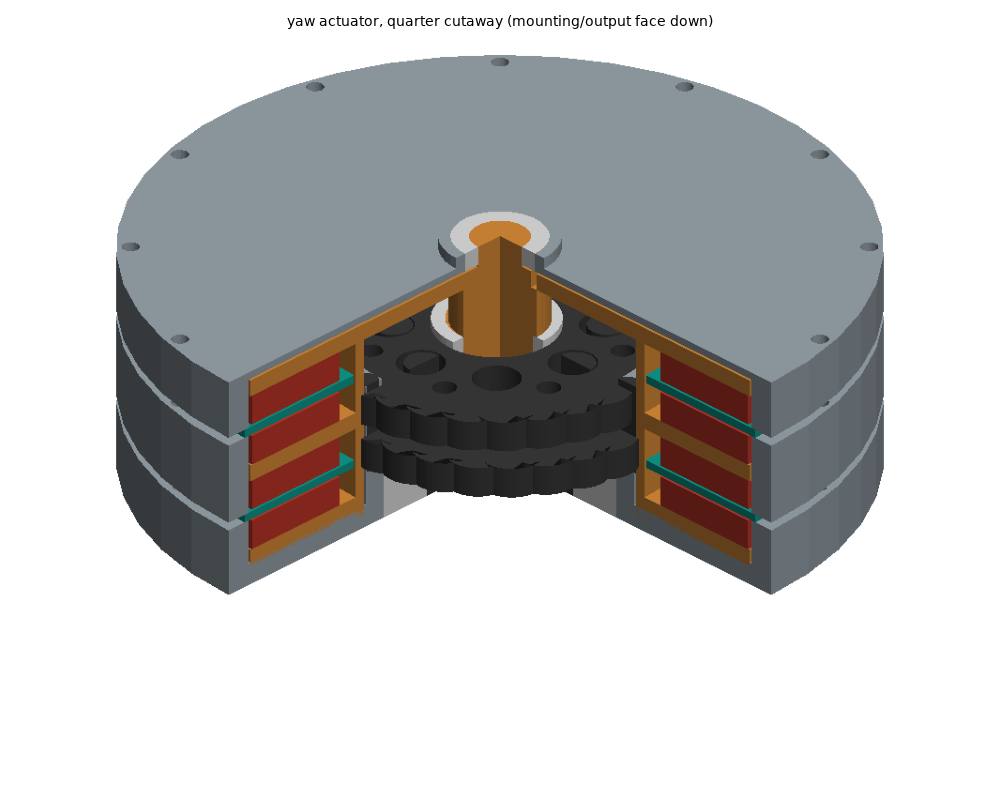
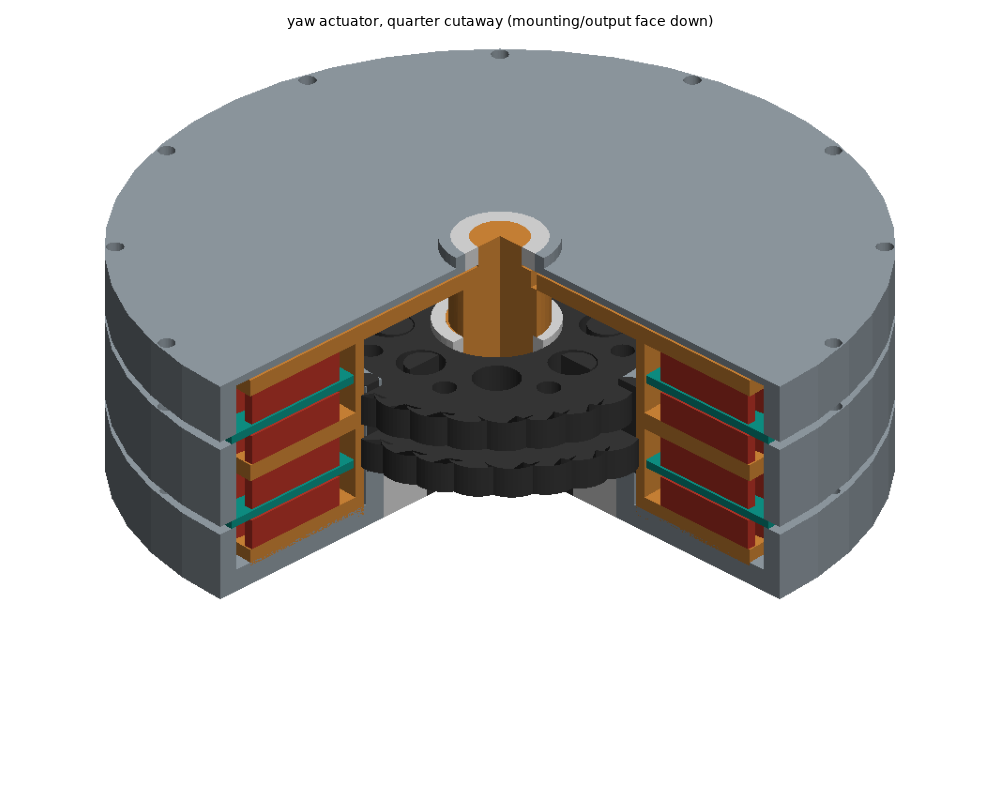
Round 9 in progress: 6 mm magnets canonical in the closure, BOM and document generator
Claude-Session: https://claude.ai/code/session_01RhbB1sts16H7Chkqp6ycKd

diff --git a/analysis/actuator_design.py b/analysis/actuator_design.py
@@ -302,7 +302,7 @@ def write_doc(figs):
                         f"{o['margin_knee']:.2f}", f"{o['margin_yaw']:.2f}", "yes" if o["closes"] else "no"))
     case_rows = []
     for r in CL["cases"]:
-        b, a = r["B: 1 stator, 3 oz boards"], r["A-cost: 2 stators, 2 oz boards (chosen)"]
+        b, a = r["B: 1 stator, 3 oz boards, 8 mm magnets"], r["A-cost: 2 stators, 2 oz boards, 6 mm magnets (chosen)"]
         case_rows.append((r["label"], f"{b['need']['femur']:.0f} / {b['need']['knee']:.0f} / {b['need']['yaw']:.0f}", "yes" if b["closes"] else "no",
                           f"{a['need']['femur']:.0f} / {a['need']['knee']:.0f} / {a['need']['yaw']:.0f}", "yes" if a["closes"] else "no"))
     bom_rows = [(r["item"], r["qty_per_unit"], r["spec"][:90], f"{float(r['qty_per_unit'])*float(r['price_before_usd']):.0f}", f"{float(r['qty_per_unit'])*float(r['unit_price_usd']):.0f}", f"{float(r['qty_per_unit'])*float(r['price_100_usd']):.0f}", r["verified"]) for r in BOM]
@@ -549,10 +549,11 @@ surface-charge model at the mean radius, gap {AB['h_m_mm']*0+3.2:.1f} mm magnet 
 ![Rotor field]({rel(os.path.join(FIG, 'rotor-field.png'))})
 
 Rectangular 5 mm blocks fill 71 % of the 7 mm segment at the mean radius and
-give 84 % of the trapezoid field; 8 mm thick blocks (30 × 8 × 5, a standard
-size stood on edge) buy that back. **Chosen: 30 × 8 × 5 N48H for the femur and
-knee, 30 × 6 × 5 for the yaw.** Half the blocks are magnetised through their
-5 mm dimension, half through the 8 mm — specify both. The {RF['rect 30x5x8 N48']['attraction_N']/1e3:.1f} kN
+give 84 % of the trapezoid field; thicker blocks buy that back. **Chosen
+(round 9): 30 × 6 × 5 N48H on every unit** — the v2 board's extra torque paid
+for the thinner, lighter, cheaper block; 8 mm was the choice of rounds 5–8.
+Half the blocks are magnetised through their 5 mm dimension, half through the
+6 mm — specify both. The {RF['rect 30x5x8 N48']['attraction_N']/1e3:.1f} kN
 attraction between the rotors sizes the 4.5 mm carriers ({CADJ['femur']['carrier_deflection_mm']:.2f} mm deflection).
 
 ### 9.3 The unit — `cad/actuator/actuator.py`, STEP and STL in `build/cad/`
@@ -597,7 +598,7 @@ and are not worth it.
 ### 9.5 Each joint on the built motor
 
 The requirement column is what 01-sizing derives **at the robot mass the CAD
-implies** ({CL['options']['A-cost: 2 stators, 2 oz boards (chosen)']['m_robot']:.0f} kg with the two-stator units), not the 49 kg of round 1;
+implies** ({CL['options']['A-cost: 2 stators, 2 oz boards, 6 mm magnets (chosen)']['m_robot']:.0f} kg with the two-stator units), not the 49 kg of round 1;
 §9.7 explains why that is the right mass to check against.
 
 {md(("Joint", "Cycloid × capstan", "Board", "Motor cont / peak (N·m)", "Joint cont / peak (N·m)", "Needed at the CAD mass", "Margin", "Joint speed no-load (rad/s)", "Unit mass (kg)", "Height (mm)"), joint_rows)}
@@ -697,9 +698,10 @@ pins press through — the half-grooves that needed a 4-axis mill are gone.
 The output flange is a turned hub with a laser-cut plate. All in the CAD and
 the BOM.
 
-**With the v2 board's torque in hand, the 6 mm magnet option** (30 × 5 × 6,
-{RF['rect 30x5x6 N48']['B1_midplane']:.2f} T, {RF['rect 30x5x6 N48']['magnet_mass_g']:.0f} g per two rings) is on the table: §9.7 carries it as "A-cost, 6 mm
-magnets". It is lighter by {2*(RF['rect 30x5x8 N48']['magnet_mass_g']-RF['rect 30x5x6 N48']['magnet_mass_g'])/1000:.2f} kg per unit and 4 mm shorter.
+**4. With the v2 board's torque in hand, the magnets drop to 6 mm** (30 × 5 × 6,
+{RF['rect 30x5x6 N48']['B1_midplane']:.2f} T at the board, {RF['rect 30x5x6 N48']['magnet_mass_g']:.0f} g per two rings instead of {RF['rect 30x5x8 N48']['magnet_mass_g']:.0f}): the unit is
+{2*(RF['rect 30x5x8 N48']['magnet_mass_g']-RF['rect 30x5x6 N48']['magnet_mass_g'])/1000:.2f} kg lighter and 4 mm shorter, the robot ~10 kg lighter, and §9.7 still closes
+with 1.09 at the knee. The 8 mm blocks stay in §9.7 as the margin option.
 
 ### 9.7 Does the robot close? — `analysis/closure.py`
 
@@ -716,15 +718,15 @@ what its motor and ratio give. The fixed point for each unit option:
 The single-stator unit cannot close the requirement as defined at any mass:
 the torque it needs grows with the mass it adds faster than its own torque.
 Two stators per unit ({CADJ['femur']['height_mm']:.0f} mm tall, {CADJ['femur']['total_g']/1000:.1f} kg) close it at
-about {CL['options']['A-cost: 2 stators, 2 oz boards (chosen)']['m_robot']:.0f} kg. The other way to close would have been the definition of
+about {CL['options']['A-cost: 2 stators, 2 oz boards, 6 mm magnets (chosen)']['m_robot']:.0f} kg. The other way to close would have been the definition of
 "continuous": the walking load case is dyn 1.5 on three legs, on a 30° slope,
 accelerating at 1 m/s², over the whole routine working volume, all at once.
 Against gentler definitions:
 
-{md(("Continuous load case", "B: 1 stator, femur / knee / yaw needed at " + f"{CL['options']['B: 1 stator, 3 oz boards']['m_robot']:.0f} kg", "B closes?", "A: 2 stators, needed at " + f"{CL['options']['A-cost: 2 stators, 2 oz boards (chosen)']['m_robot']:.0f} kg", "A closes?"), case_rows)}
+{md(("Continuous load case", "B: 1 stator, femur / knee / yaw needed at " + f"{CL['options']['B: 1 stator, 3 oz boards, 8 mm magnets']['m_robot']:.0f} kg", "B closes?", "A: 2 stators, needed at " + f"{CL['options']['A-cost: 2 stators, 2 oz boards, 6 mm magnets (chosen)']['m_robot']:.0f} kg", "A closes?"), case_rows)}
 
 **The review chose A** (round 6): two stators everywhere, {CADJ['femur']['height_mm']:.0f} mm units, a
-~{CL['options']['A-cost: 2 stators, 2 oz boards (chosen)']['m_robot']:.0f} kg robot, the requirement as written. Round 8 then swapped the
+~{CL['options']['A-cost: 2 stators, 2 oz boards, 6 mm magnets (chosen)']['m_robot']:.0f} kg robot, the requirement as written. Round 8 then swapped the
 3 oz boards for two 8-layer 2 oz JLCPCB boards per position (11 % less torque,
 a quarter of the price) and raised the total ratio to 80:1 through the
 capstan stage to keep the margin ("A-cost" above). The single-stator unit

diff --git a/analysis/closure.py b/analysis/closure.py
@@ -57,16 +57,18 @@ def fixed_point(m_fk, m_yaw):
 
 OPTIONS = {}
 m2, my2 = CAD["femur"]["total_g"] / 1000, CAD["yaw"]["total_g"] / 1000          # canonical: two stators (round 7)
-T1, Ty1 = T_MOTOR * N_FK * ETA_FK, T_MOTOR * N_YAW * ETA_YAW
-T1c, Ty1c = T_MOTOR_CHEAP * N_FK * ETA_FK, T_MOTOR_CHEAP * N_YAW * ETA_YAW
-OPTIONS["A-cost: 2 stators, 2 oz boards (chosen)"] = dict(m_fk=m2, m_yaw=my2, T_fk=2 * T1c, T_yaw=2 * Ty1c, h=CAD["femur"]["height_mm"], h_yaw=CAD["yaw"]["height_mm"])
-B6 = RF["rect 30x5x6 N48"]["B1_midplane"] / RF["rect 30x5x8 N48"]["B1_midplane"]          # 6 mm blocks: lighter, cheaper, less field
-DM6 = 2 * (RF["rect 30x5x8 N48"]["magnet_mass_g"] - RF["rect 30x5x6 N48"]["magnet_mass_g"]) / 1000   # kg saved per two-stator unit
-OPTIONS["A-cost, 6 mm magnets"] = dict(m_fk=m2 - DM6, m_yaw=my2 - DM6, T_fk=2 * T1c * B6, T_yaw=2 * Ty1c * B6, h=CAD["femur"]["height_mm"] - 4, h_yaw=CAD["yaw"]["height_mm"] - 4)
-OPTIONS["A: 2 stators, 3 oz boards"] = dict(m_fk=m2, m_yaw=my2, T_fk=2 * T1, T_yaw=2 * Ty1, h=CAD["femur"]["height_mm"], h_yaw=CAD["yaw"]["height_mm"])
+BMAG = RF[CAD["femur"]["magnet"]]["B1_midplane"] / RF["rect 30x5x8 N48"]["B1_midplane"]   # asbuilt.json is rated with 8 mm blocks
+T1, Ty1 = T_MOTOR * BMAG * N_FK * ETA_FK, T_MOTOR * BMAG * N_YAW * ETA_YAW
+T1c, Ty1c = T_MOTOR_CHEAP * BMAG * N_FK * ETA_FK, T_MOTOR_CHEAP * BMAG * N_YAW * ETA_YAW
+MAG = CAD["femur"]["magnet"]                                                      # the CAD's magnets (6 mm from round 9)
+B8 = RF["rect 30x5x8 N48"]["B1_midplane"] / RF[MAG]["B1_midplane"]                # 8 mm blocks relative to the CAD's
+DM8 = 2 * (RF["rect 30x5x8 N48"]["magnet_mass_g"] - RF[MAG]["magnet_mass_g"]) / 1000   # kg added per two-stator unit
+OPTIONS["A-cost: 2 stators, 2 oz boards, 6 mm magnets (chosen)"] = dict(m_fk=m2, m_yaw=my2, T_fk=2 * T1c, T_yaw=2 * Ty1c, h=CAD["femur"]["height_mm"], h_yaw=CAD["yaw"]["height_mm"])
+OPTIONS["A-cost, 8 mm magnets"] = dict(m_fk=m2 + DM8, m_yaw=my2 + DM8, T_fk=2 * T1c * B8, T_yaw=2 * Ty1c * B8, h=CAD["femur"]["height_mm"] + 4, h_yaw=CAD["yaw"]["height_mm"] + 4)
+OPTIONS["A: 2 stators, 3 oz boards, 8 mm magnets"] = dict(m_fk=m2 + DM8, m_yaw=my2 + DM8, T_fk=2 * T1 * B8, T_yaw=2 * Ty1 * B8, h=CAD["femur"]["height_mm"] + 4, h_yaw=CAD["yaw"]["height_mm"] + 4)
 if "femur-1s" in CAD and "yaw-1s" in CAD:
     m1, my = CAD["femur-1s"]["total_g"] / 1000, CAD["yaw-1s"]["total_g"] / 1000
-    OPTIONS["B: 1 stator, 3 oz boards"] = dict(m_fk=m1, m_yaw=my, T_fk=T1, T_yaw=Ty1, h=CAD["femur-1s"]["height_mm"], h_yaw=CAD["yaw-1s"]["height_mm"])
+    OPTIONS["B: 1 stator, 3 oz boards, 8 mm magnets"] = dict(m_fk=m1, m_yaw=my, T_fk=T1 * B8, T_yaw=Ty1 * B8, h=CAD["femur-1s"]["height_mm"], h_yaw=CAD["yaw-1s"]["height_mm"])
 for name, o in OPTIONS.items():
     m = fixed_point(o["m_fk"], o["m_yaw"])
     o["m_robot"] = m
@@ -104,7 +106,7 @@ for label, dyn, slope, accel, sc in CASES:
         row[oname] = dict(need=need, margin_femur=o["T_fk"] / need["femur"], margin_knee=o["T_fk"] / need["knee"], margin_yaw=o["T_yaw"] / need["yaw"],
                           closes=min(o["T_fk"] / need["femur"], o["T_fk"] / need["knee"], o["T_yaw"] / need["yaw"]) >= 1.0)
     relief.append(row)
-T_single = OPTIONS["B: 1 stator, 3 oz boards"]["T_fk"] if "B: 1 stator, 3 oz boards" in OPTIONS else T1
+T_single = OPTIONS["B: 1 stator, 3 oz boards, 8 mm magnets"]["T_fk"] if "B: 1 stator, 3 oz boards, 8 mm magnets" in OPTIONS else T1
 RELIEF_SCALE = None
 
 out = dict(m_fixed=M_FIXED, torque_per_kg=C, torque_per_kg_peak=C_PEAK, T_motor=T_MOTOR, options=OPTIONS, cases=relief, T_single_unit=T_single)
@@ -125,7 +127,7 @@ ax.set_title("Each unit option at its own fixed-point robot mass", fontsize=10)
 ax = axes[1]
 labels = [r["label"].replace(", stride", ",\nstride").replace(": ", ":\n") for r in relief]
 y = np.arange(len(relief))
-for k, (oname, col) in enumerate((("B: 1 stator, 3 oz boards", "#0f9b8e"), ("A-cost: 2 stators, 2 oz boards (chosen)", "#d98c3a"))):
+for k, (oname, col) in enumerate((("B: 1 stator, 3 oz boards, 8 mm magnets", "#0f9b8e"), ("A-cost: 2 stators, 2 oz boards, 6 mm magnets (chosen)", "#d98c3a"))):
     if oname not in OPTIONS:
         continue
     vals = [max(r[oname]["need"]["femur"], r[oname]["need"]["knee"]) for r in relief]

diff --git a/cad/actuator/actuator.py b/cad/actuator/actuator.py
@@ -36,7 +36,7 @@ import cycloid as cy  # noqa: E402
 GEO = json.load(open(os.path.join(ROOT, "hw", "stator", "geometry.json")))
 RF = json.load(open(os.path.join(ROOT, "hw", "stator", "rotor_field.json")))
 JOINT = sys.argv[1] if len(sys.argv) > 1 else "femur"
-JOINT_MAGNET = {"femur": "rect 30x5x8 N48", "knee": "rect 30x5x8 N48", "yaw": "rect 30x5x8 N48"}   # round 6: the heavier robot needs the 8 mm blocks on the yaw too
+JOINT_MAGNET = {"femur": "rect 30x5x6 N48", "knee": "rect 30x5x6 N48", "yaw": "rect 30x5x6 N48"}   # round 9: the v2 board's torque lets the magnets drop to 6 mm (lighter, cheaper, 4 mm shorter)
 MAGNET = JOINT_MAGNET[JOINT]
 MAG_L, MAG_W, MAG_H = 30.0, RF[MAGNET]["w_b_mm"], RF[MAGNET]["h_m_mm"]
 P = GEO["pole_pairs"]

diff --git a/docs/design/01-sizing.md b/docs/design/01-sizing.md
@@ -25,14 +25,14 @@ and the wider architecture levers in [03-architecture-levers.md](03-architecture
 
 | Item | kg | Basis |
 |---|---|---|
-| 18 × joint actuators | 103.3 | 5.8 kg each, target (per-DOF sizing should bring the yaw and knee below this) |
+| 18 × joint actuators | 107.0 | 6.0 kg each, target (per-DOF sizing should bring the yaw and knee below this) |
 | Body structure | 6.0 | plates, hip pods, top deck |
 | 6 × legs | 7.2 | links, feet, in-leg transmission share |
-| 2 × hot-swap batteries | 8.0 | ~1498 Wh each, see §8 |
+| 2 × hot-swap batteries | 8.0 | ~1535 Wh each, see §8 |
 | Electronics | 3.0 | compute, drivers, sensors, harness |
 | Payload interface | 2.0 | deck rails, tool mount, solar skin |
 | Margin | 3.0 |  |
-| **Robot, unloaded** | **132.5** |  |
+| **Robot, unloaded** | **136.2** |  |
 | Mission payload | 8.0 | trash + gripper |
 | Rider (stretch goal) | 100.0 | adult male; reported, not a design driver |
 
@@ -47,7 +47,7 @@ every torque below grows by 15 %.
 
 Putting all eighteen motors in the body, as pancakes stacked three-high on
 each hip's yaw axis, is what sets the body's proportions: the hip stack is
-202 mm tall and Ø186 mm, so the body is a
+202 mm tall and Ø192 mm, so the body is a
 220 mm slab whose width is set by the stacks, not by the batteries.
 The yaw axes sit under the body at ±120 mm; the batteries, compute and
 payload bay fill the space between the six stacks. The flat top is the solar
@@ -75,14 +75,14 @@ knee sits high and only `femur × cos(angle)` outboard; and the **tibia**,
 
 | Parameter | Value | Why |
 |---|---|---|
-| Body slab, length × width × height | 900 × 458 × 220 mm | width = yaw-axis spacing + one actuator diameter + two side rails |
+| Body slab, length × width × height | 900 × 464 × 220 mm | width = yaw-axis spacing + one actuator diameter + two side rails |
 | Hip yaw axes | x = +330, +0, -330 mm, y = ±120 mm | six vertical axes, under the body |
 | Coxa / femur / tibia | 150 / 250 / 500 mm | tibia 2.0× femur, agreed in review |
 | Neutral stance | femur 45° up, tibia vertical | a posture, adjustable at run time |
 | Hip height / knee height | 323 / 500 mm | femur axis and knee above ground |
 | Femur arm / foot radius | 177 / 327 mm | horizontal, femur axis → foot / yaw axis → foot |
 | Minimum leg extension | 250 mm | tibia − femur; the closest the foot can come to the femur axis |
-| Actuator envelope | Ø186 × 62 mm, ≤ 5.8 kg | pancake; three stacked per hip on the yaw axis |
+| Actuator envelope | Ø192 × 62 mm, ≤ 6.0 kg | pancake; three stacked per hip on the yaw axis |
 | Top deck height | 543 mm | payload deck and solar skin |
 
 ![The agreed leg at the walking load](sizing/leg-stance.png)
@@ -101,9 +101,9 @@ impact and gait dynamics until there is a simulation.
 
 | Load case | Rating | Mass on feet (kg) | Legs down | Dyn. factor | Slope + accel | Vertical / foot (N) | Propulsion / foot (N) |
 |---|---|---|---|---|---|---|---|
-| Walk, tripod gait | continuous | 140 | 3 | 1.5 | 30° + 1.0 m/s² | **689** | 277 |
-| Stumble / step-down, two legs | peak | 140 | 2 | 3.0 | 0° + 2.0 m/s² | **2067** | 140 |
-| Rider, wave gait (stretch) | stretch | 232 | 3 | 1.2 | 15° + 0.3 m/s² | **912** | 220 |
+| Walk, tripod gait | continuous | 144 | 3 | 1.5 | 30° + 1.0 m/s² | **707** | 284 |
+| Stumble / step-down, two legs | peak | 144 | 2 | 3.0 | 0° + 2.0 m/s² | **2122** | 144 |
+| Rider, wave gait (stretch) | stretch | 236 | 3 | 1.2 | 15° + 0.3 m/s² | **927** | 224 |
 
 Joint torques at the neutral stance (N·m). The femur torque is `vertical
 load × femur arm`; the knee's comes from the in-plane share of the
@@ -113,9 +113,9 @@ propulsion:
 
 | Load case | Rating | Yaw | Femur | Knee |
 |---|---|---|---|---|
-| Walk, tripod gait | continuous | 78 | **167** | 69 |
-| Stumble / step-down, two legs | peak | 40 | **388** | 35 |
-| Rider, wave gait (stretch) | stretch | 62 | **197** | 55 |
+| Walk, tripod gait | continuous | 80 | **171** | 71 |
+| Stumble / step-down, two legs | peak | 41 | **398** | 36 |
+| Rider, wave gait (stretch) | stretch | 63 | **200** | 56 |
 
 ![Torque map over the foot workspace](sizing/torque-map.png)
 
@@ -184,16 +184,16 @@ that sideways) and records the worst moment about each joint's axis:
 
 | DOF | Neutral, walk (N·m) | Sprawl routine (N·m) | Mammal-stance routine (N·m) | Continuous (N·m) | Peak (N·m) | Rider, neutral (N·m) | Swing speed (rad/s) | Motor, ratio | Gives cont / peak (N·m) | Joint rad/s at 5500 rpm |
 |---|---|---|---|---|---|---|---|---|---|---|
-| yaw | 90 | 135 | 57 | **135** | **144** | 72 | 6 | 1 stator, **50:1** | 136 / 413 | 11.5 |
-| femur | 149 | 284 | 334 | **334** | **605** | 183 | 4 | 2 stators, **80:1** | 436 / 1320 | 7.2 |
-| knee | 41 | 301 | 352 | **352** | **739** | 33 | 4 | 2 stators, **80:1** | 436 / 1320 | 7.2 |
+| yaw | 93 | 138 | 58 | **138** | **147** | 73 | 6 | 1 stator, **55:1** | 150 / 454 | 10.5 |
+| femur | 153 | 291 | 342 | **342** | **621** | 186 | 4 | 2 stators, **80:1** | 436 / 1320 | 7.2 |
+| knee | 43 | 309 | 362 | **362** | **759** | 34 | 4 | 2 stators, **80:1** | 436 / 1320 | 7.2 |
 
 Two things the neutral-stance numbers hid. The **knee** is not the light
 joint it looks: whenever the foot is raised the long tibia has to fold, the
 knee swings out the far side of the femur axis, and the 500 mm tibia
 becomes the lever. At the corners of the routine volume and on a 300 mm step
 the knee's torque is above the femur's. And the **yaw** joint, which never
-sees weight, still needs 135 N·m for propulsion on a 30° slope over a
+sees weight, still needs 138 N·m for propulsion on a 30° slope over a
 327 mm foot radius — half the femur, and it is the fast joint.
 
 The remaining requirements common to all three:
@@ -201,13 +201,13 @@ The remaining requirements common to all three:
 | Quantity | Requirement | Driving case |
 |---|---|---|
 | Joint range | yaw ±95°, femur −70…+90°, knee 20…160° | yaw 90° puts the leg plane fore-aft for the mammal stance; fold-flat for transport; crouch to the deck |
-| Yaw bearing overturning moment (structural) | 676 N·m | peak foot load × foot radius; carried by the coxa and the yaw bearing, not the motor |
+| Yaw bearing overturning moment (structural) | 693 N·m | peak foot load × foot radius; carried by the coxa and the yaw bearing, not the motor |
 | Backdrivability / sensing | joint-torque estimate ≤ 10 % error, foot contact detection | high ratio ⇒ cannot rely on motor-current transparency; needs output-side sensing or SEA |
-| Envelope | Ø186 × 62 mm | pancake, axis = hip yaw axis |
-| Mass | ≤ 5.8 kg (femur); less for yaw and knee | one motor, three ratios |
+| Envelope | Ø192 × 62 mm | pancake, axis = hip yaw axis |
+| Mass | ≤ 6.0 kg (femur); less for yaw and knee | one motor, three ratios |
 | Bus voltage | 48 V | 13S Li-ion; 48 V drivers and connectors are commodity |
-| Continuous mechanical power, per leg | ~812 W | femur and yaw continuous torque × their stance rates |
-| Peak mechanical power, per joint | ~3.7 kW | peak torque × 5 rad/s |
+| Continuous mechanical power, per leg | ~834 W | femur and yaw continuous torque × their stance rates |
+| Peak mechanical power, per joint | ~3.8 kW | peak torque × 5 rad/s |
 | Environment | IP54 body, IP65 legs, −10…+45 °C | outdoor, mud, rain; heat rejection at 45 °C ambient sizes the stator copper |
 
 ## 7. Motor and reduction: one PCB axial-flux motor, three ratios
@@ -252,7 +252,7 @@ The per-DOF table in §6 picks, for each joint, the smallest 5:1 step that
 meets both its ratings, capped at 80:1 for a single-stage cycloid, with
 one stator if that leaves enough speed for the joint's swing and two
 stators otherwise. The result is **one stator and rotor design, stacked
-once or twice, with three cycloid discs**: yaw 1 stator at 50:1,
+once or twice, with three cycloid discs**: yaw 1 stator at 55:1,
 femur 2 stators at 80:1, knee 2 stators at 80:1. The femur gives
 436 N·m continuous and 1320 N·m peak with 7.2 rad/s at the joint. A
 two-stator unit is the same PCB twice and one more rotor, so the part count
@@ -270,8 +270,8 @@ stays at one stator, one rotor, one driver and three discs.
 * A single-stage cycloid ratio equals its lobe count. 80 lobes on a disc that
   fits inside a Ø110 mm bore means a lobe pitch of ~3.7 mm and pins of
   ~3 mm: fine for a machined steel disc and hardened pins, marginal for
-  printed or aluminium parts at 739 N·m. The output torque reacts through
-  those pins at ~47 mm radius, so the net pin load at peak is ~15.7 kN
+  printed or aluminium parts at 759 N·m. The output torque reacts through
+  those pins at ~47 mm radius, so the net pin load at peak is ~16.1 kN
   over roughly half the pins.
 * High ratio means low transparency: reflected motor inertia through
   80:1 is 6,400× the rotor's own. Foot-contact detection and torque
@@ -291,27 +291,27 @@ them so that the transmission and the software are not waiting on the motor.
 
 | Quantity | Value | Basis |
 |---|---|---|
-| Average electrical power, 1 m/s walk | 1498 W | cost of transport 1.0 × m·g·v + 120 W hotel |
-| Average electrical power, rider at 0.3 m/s (stretch) | 804 W | same model |
+| Average electrical power, 1 m/s walk | 1535 W | cost of transport 1.0 × m·g·v + 120 W hotel |
+| Average electrical power, rider at 0.3 m/s (stretch) | 815 W | same model |
 | Endurance target | 2 h walking | mission length |
-| Battery, each of 2 | **1498 Wh, 31 Ah at 48 V, ~8.8 kg** | 170 Wh/kg pack level |
-| Peak bus current | ~231 A | six joints near peak power, 50 % coincidence |
+| Battery, each of 2 | **1535 Wh, 32 Ah at 48 V, ~9.0 kg** | 170 Wh/kg pack level |
+| Peak bus current | ~237 A | six joints near peak power, 50 % coincidence |
 | Hot-swap | either pack alone must carry the full peak | a pack coming out must not brown out the drivers |
 
 A cost of transport of 1.0 is pessimistic for a good quadruped and
 realistic for a geared hexapod with cycloids in the loop; it puts the design
-in the ~3.0 kWh, two 9 kg packs range, which the mass budget carries.
+in the ~3.1 kWh, two 9 kg packs range, which the mass budget carries.
 
 ## 9. What this pass decided and what it left open
 
 Decided in review, or proposed here:
 
-1. Robot ~132 kg, 0.9 × 0.46 × 0.2 m slab body with the hips under it, hips 0.32 m up.
+1. Robot ~136 kg, 0.9 × 0.46 × 0.2 m slab body with the hips under it, hips 0.32 m up.
 2. Sprawled yaw–pitch–pitch legs (agreed): 150 mm coxa, femur 250 mm up and out at 45°, tibia 500 mm vertical (2.0×, shortened from 2.5× for the knee's sake), with ±95° of yaw so the same leg stands in a mammal stance when asked (agreed).
 3. The rider is a stretch goal, not a rating (agreed).
-4. Per-DOF actuators (agreed): yaw 135 / 144, femur 334 / 605, knee 352 / 739 N·m continuous / peak; 8 rad/s at the yaw; Ø186 × 62 mm.
-5. One Ø170 mm PCB axial-flux stator design, 1 stator / 2 stators / 2 stators for yaw / femur / knee, cycloid ratios 50 / 80 / 80:1, 48 V.
-6. Two 1498 Wh hot-swap packs.
+4. Per-DOF actuators (agreed): yaw 138 / 147, femur 342 / 621, knee 362 / 759 N·m continuous / peak; 8 rad/s at the yaw; Ø192 × 62 mm.
+5. One Ø170 mm PCB axial-flux stator design, 1 stator / 2 stators / 2 stators for yaw / femur / knee, cycloid ratios 55 / 80 / 80:1, 48 V.
+6. Two 1535 Wh hot-swap packs.
 
 Open, in order of how much they change the actuator:
 

diff --git a/docs/design/06-geometry.md b/docs/design/06-geometry.md
@@ -2,9 +2,9 @@
 
 *Generated by `analysis/drawing.py` from the models. All dimensions in mm.*
 
-The current rough geometry from four views. The body is a 900 × 458 × 220 mm slab
+The current rough geometry from four views. The body is a 900 × 464 × 220 mm slab
 with six hip stacks under it on a 240 mm spacing, 330 mm apart along the
-body. Each hip is three coaxial pancake actuators, Ø186 × 62 mm, on the yaw axis.
+body. Each hip is three coaxial pancake actuators, Ø192 × 62 mm, on the yaw axis.
 Each leg is coxa 150 / femur 250 / tibia 500 mm. The sprawl stance stands with
 the femur axis 323 mm and the deck 561 mm above ground; the mammal
 stance, same robot, 644 mm and 882 mm.
@@ -25,7 +25,7 @@ stance, same robot, 644 mm and 882 mm.
 
 ![hip stack](drawing/hip-stack.png)
 
-Each actuator has a Ø186 × 62 mm envelope including housing, bearings and
+Each actuator has a Ø192 × 62 mm envelope including housing, bearings and
 reducer. With the reducer in-plane the magnetically active annulus is
 r = 55–85 mm (a 30 mm wide ring) and the reducer has a Ø100 mm bore; with
 the reducer stacked axially the motor may use the whole disc but only part of
@@ -34,9 +34,9 @@ the height. That envelope is the input to the motor study in
 
 | Quantity | Value |
 |---|---|
-| Actuator envelope | Ø186 × 62 mm, ≤ 5.5 kg |
+| Actuator envelope | Ø192 × 62 mm, ≤ 6.0 kg |
 | Hip stack | 3 actuators + 2 × 8 mm = 202 mm tall inside the 220 mm slab |
-| Envelope volume per actuator | 1.68 L |
+| Envelope volume per actuator | 1.79 L |
 | Active annulus (in-plane reducer) | r 55–85 mm, ~30 mm of axial length available to magnetics |
 | Yaw axis spacing / hip pitch | 240 mm across, 330 mm along |
 | Coxa / femur / tibia | 150 / 250 / 500 mm |
